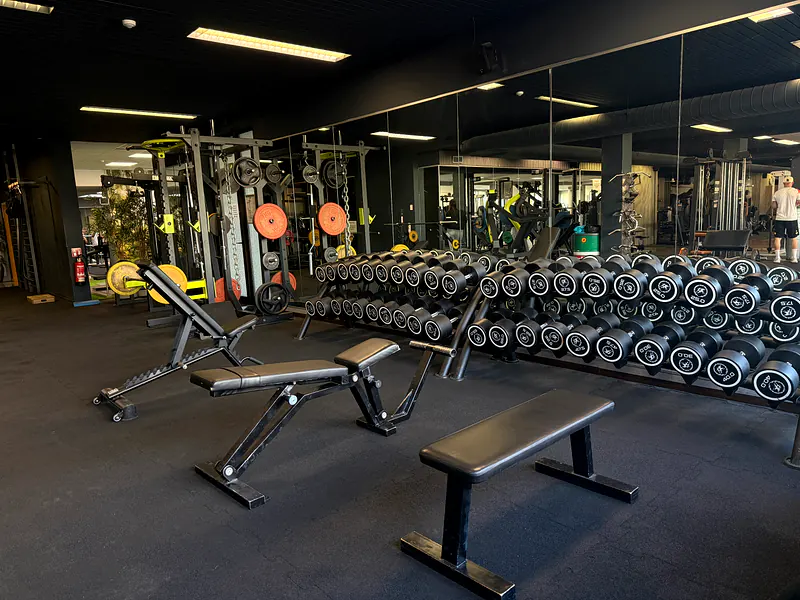
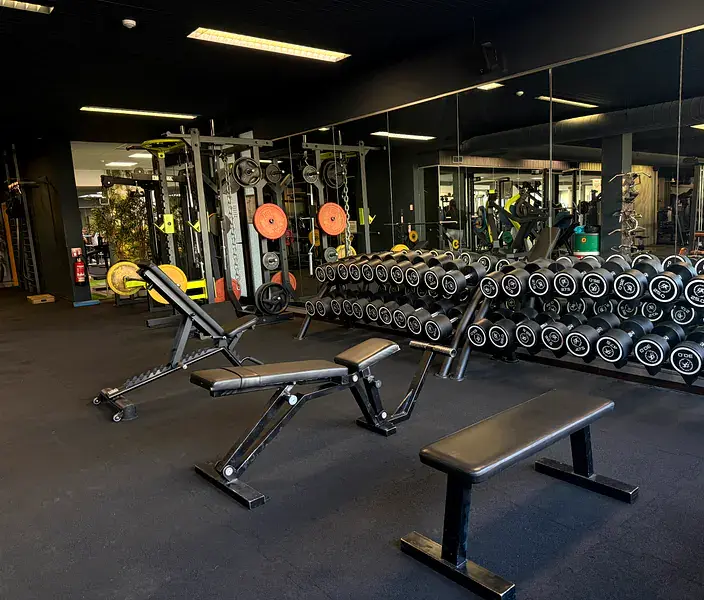
fix: Pricing zentriert, Battle Ropes raus, Mann im Spiegel gecroppt, Hanteln 1-70kg
- Pricing Section: Header + Tabs + Cards mittig zentriert (maxWidth 760px)
- Battle Ropes durch Kettlebells ersetzt (gibt keine Battle Ropes)
- Kraft-Feature: "Kurzhanteln 1-70kg" prominent erwähnt
- Geräte-Bild: rechts 12% gecroppt → Mann im Spiegel nicht mehr sichtbar
- Text: "Kurzhanteln von 1 bis 70kg" als Highlight im Fließtext

diff --git a/src/App.tsx b/src/App.tsx
@@ -434,19 +434,23 @@ function Pricing() {
   return (
     <section id="preise" style={{ background: '#0F1419', padding: 'clamp(80px, 12vh, 160px) 0' }}>
       <div style={{ maxWidth: 1200, margin: '0 auto', padding: '0 clamp(16px, 4vw, 48px)' }}>
-        <div style={{ display: 'flex', alignItems: 'center', gap: 14, marginBottom: 24 }}>
-          <span style={{ width: 32, height: 1, background: 'var(--accent)' }} />
-          <span className="font-condensed" style={{ fontSize: 11, letterSpacing: '0.5em', textTransform: 'uppercase', color: 'var(--accent)', fontWeight: 600 }}>Mitgliedschaft</span>
+        <div style={{ textAlign: 'center', marginBottom: 48 }}>
+          <div style={{ display: 'flex', alignItems: 'center', gap: 14, justifyContent: 'center', marginBottom: 24 }}>
+            <span style={{ width: 32, height: 1, background: 'var(--accent)' }} />
+            <span className="font-condensed" style={{ fontSize: 11, letterSpacing: '0.5em', textTransform: 'uppercase', color: 'var(--accent)', fontWeight: 600 }}>Mitgliedschaft</span>
+            <span style={{ width: 32, height: 1, background: 'var(--accent)' }} />
+          </div>
+          <h2 className="font-display" style={{ fontSize: 'clamp(2.5rem, 5.5vw, 5rem)', fontWeight: 800, letterSpacing: '-0.025em', marginBottom: 16, textTransform: 'uppercase', color: '#F5F0E8', lineHeight: 0.95 }}>
+            Dein Plan. <span style={{ color: 'var(--accent-bright)', fontStyle: 'italic' }}>Dein Preis.</span>
+          </h2>
+          <p style={{ color: '#9A8470', fontSize: 15, lineHeight: 1.7, maxWidth: 540, marginInline: 'auto' }}>
+            Echte Preise. Keine Tricks. 14 Tage testen — voller Erstattung wenn's nicht passt.
+          </p>
         </div>
-        <h2 className="font-display" style={{ fontSize: 'clamp(2.5rem, 5.5vw, 5rem)', fontWeight: 800, letterSpacing: '-0.025em', marginBottom: 16, textTransform: 'uppercase', color: '#F5F0E8', lineHeight: 0.95 }}>
-          Dein Plan. <span style={{ color: 'var(--accent-bright)', fontStyle: 'italic' }}>Dein Preis.</span>
-        </h2>
-        <p style={{ color: '#9A8470', fontSize: 15, lineHeight: 1.7, marginBottom: 48, maxWidth: 540 }}>
-          Echte Preise. Keine Tricks. 14 Tage testen — voller Erstattung wenn's nicht passt.
-        </p>
 
         {/* Term tabs */}
-        <div className="pricing-tabs" style={{ display: 'inline-flex', gap: 4, padding: 4, background: 'rgba(58, 32, 32, 0.4)', border: '1px solid rgba(184, 146, 74, 0.2)', marginBottom: 48 }}>
+        <div style={{ textAlign: 'center', marginBottom: 48 }}>
+        <div className="pricing-tabs" style={{ display: 'inline-flex', gap: 4, padding: 4, background: 'rgba(58, 32, 32, 0.4)', border: '1px solid rgba(184, 146, 74, 0.2)' }}>
           {(['12', '24'] as const).map(t => (
             <button
               key={t}
@@ -469,8 +473,9 @@ function Pricing() {
             </button>
           ))}
         </div>
+        </div>
 
-        <div style={{ display: 'grid', gridTemplateColumns: 'repeat(auto-fit, minmax(320px, 1fr))', gap: 20, maxWidth: 800 }}>
+        <div style={{ display: 'grid', gridTemplateColumns: 'repeat(auto-fit, minmax(320px, 1fr))', gap: 20, maxWidth: 760, margin: '0 auto' }}>
           {plans.map((plan, i) => {
             return (
               <TiltCard key={plan.key} intensity={6} style={{ display: 'flex' }}>

diff --git a/src/components/TrainingsflaecheSpotlight.tsx b/src/components/TrainingsflaecheSpotlight.tsx
@@ -75,7 +75,7 @@ export default function TrainingsflaecheSpotlight() {
             lineHeight: 1.65, marginBottom: 36, maxWidth: '54ch',
           }}>
             Großzügige Trainingsfläche mit allem was du brauchst — Ausdauer, Kraft, funktionelles Training.
-            <span style={{ color: '#0F1419', fontWeight: 500 }}> Modernste Geräte</span>, viel Platz, kein Drängeln.
+            <span style={{ color: '#0F1419', fontWeight: 500 }}> Kurzhanteln von 1 bis 70kg</span>, modernste Geräte, viel Platz, kein Drängeln.
             Egal ob 5 Uhr morgens oder 23 Uhr abends — wir sind offen.
           </p>
 
@@ -83,8 +83,8 @@ export default function TrainingsflaecheSpotlight() {
           <div style={{ display: 'grid', gridTemplateColumns: 'repeat(3, 1fr)', gap: 24, marginTop: 40, paddingTop: 32, borderTop: '1px solid rgba(26, 15, 15, 0.15)' }}>
             {[
               ['Cardio', 'Laufband · Crosstrainer · Bike'],
-              ['Kraft', 'Maschinen · Free Weights · Racks'],
-              ['Functional', 'Battle Ropes · TRX · Mobility'],
+              ['Kraft', 'Kurzhanteln 1–70kg · Racks · Maschinen'],
+              ['Functional', 'Kettlebells · TRX · Mobility'],
             ].map(([n, l]) => (
               <div key={n}>
                 <div className="font-display" style={{ fontSize: 18, fontWeight: 700, color: 'var(--accent)', lineHeight: 1, letterSpacing: '-0.01em', marginBottom: 8 }}>{n}</div>